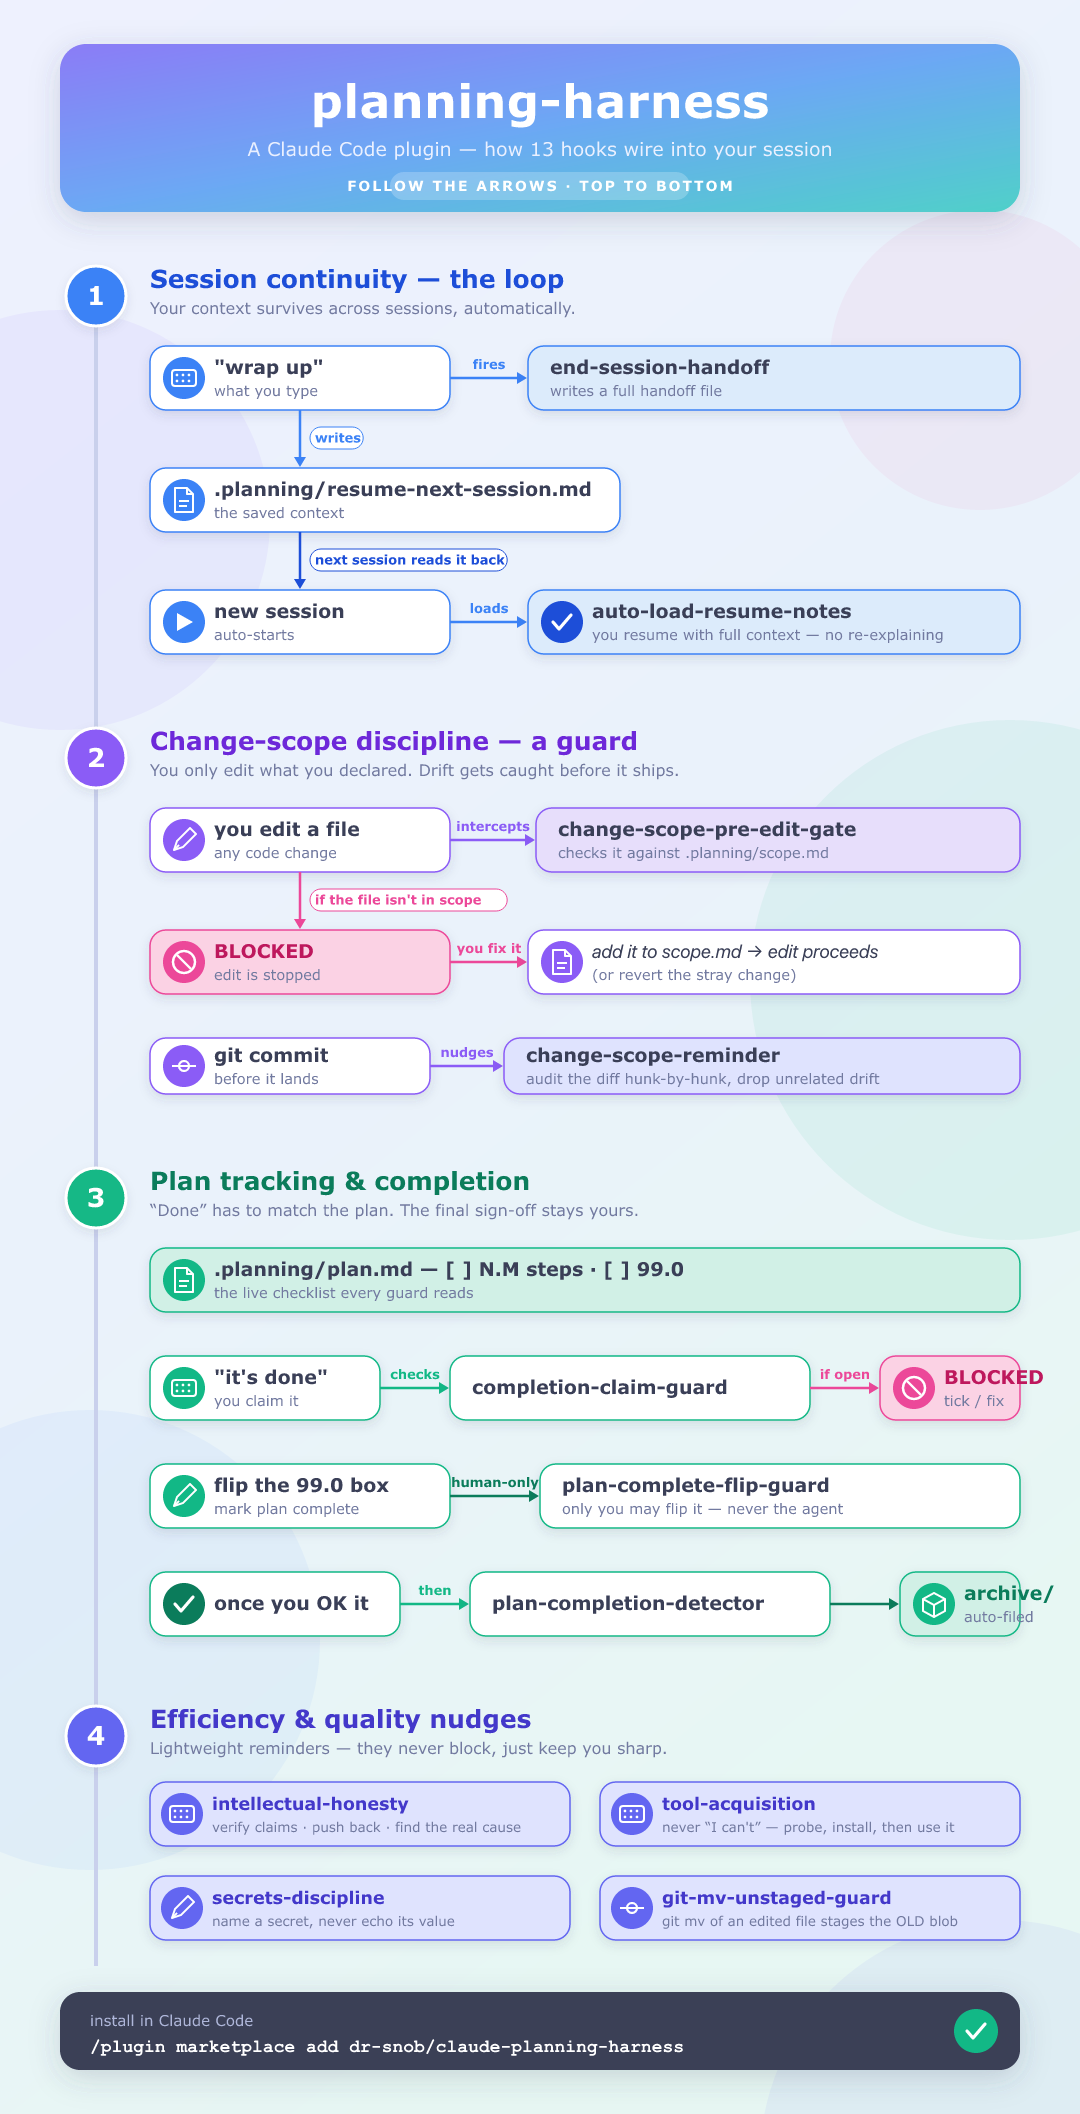
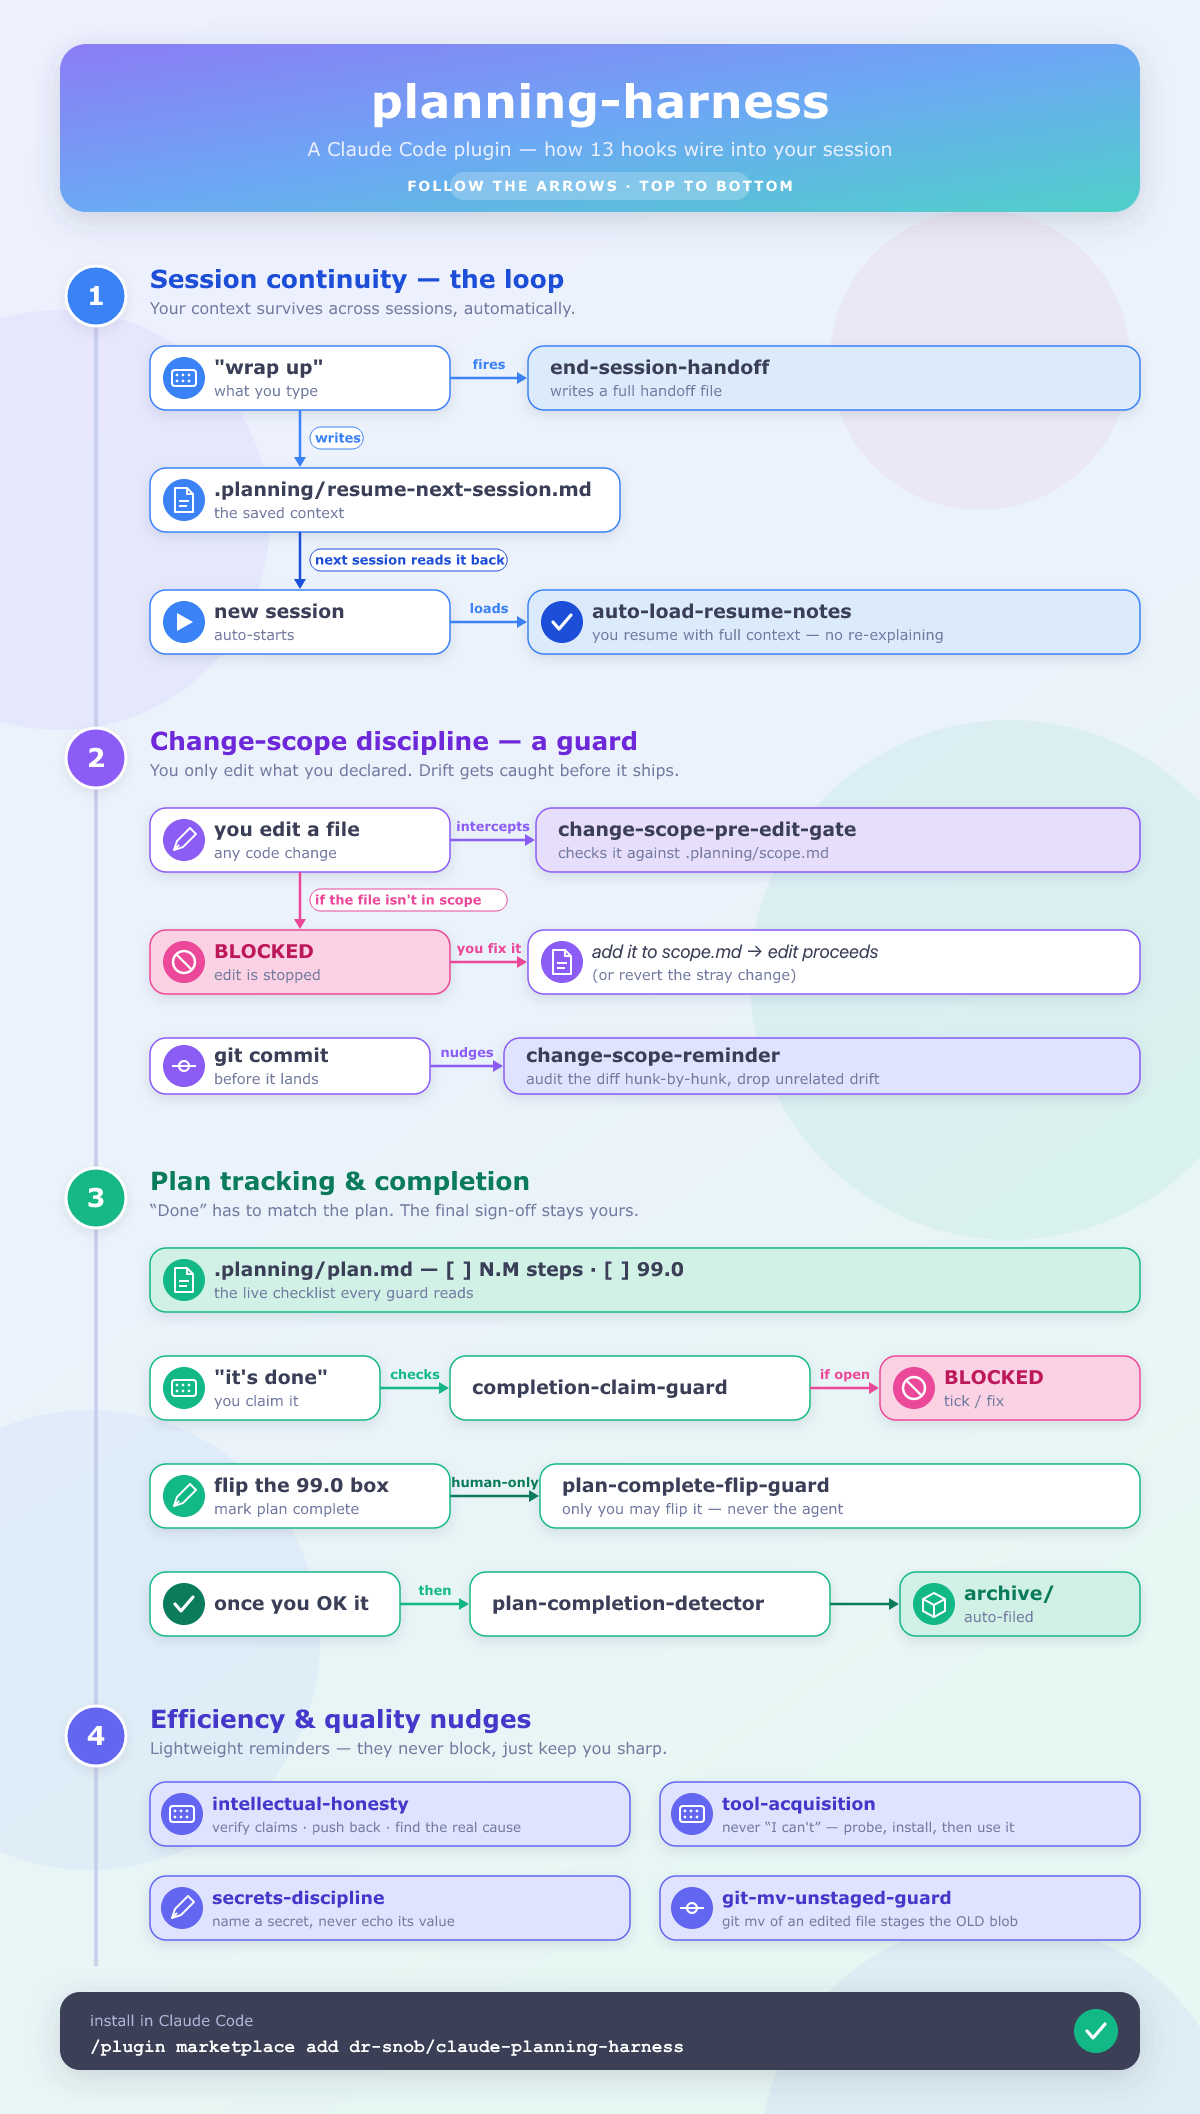
docs: widen infographic canvas 1080->1200 so BLOCKED / archive chips fit comfortably

diff --git a/docs/architecture.py b/docs/architecture.py
@@ -2,7 +2,7 @@
 # Portrait, pastel, icon-driven flow infographic for planning-harness.
 import html
 
-W = 1080
+W = 1200
 PAD = 60
 SLATE   = "#3A3F57"
 MUTE    = "#727aa0"